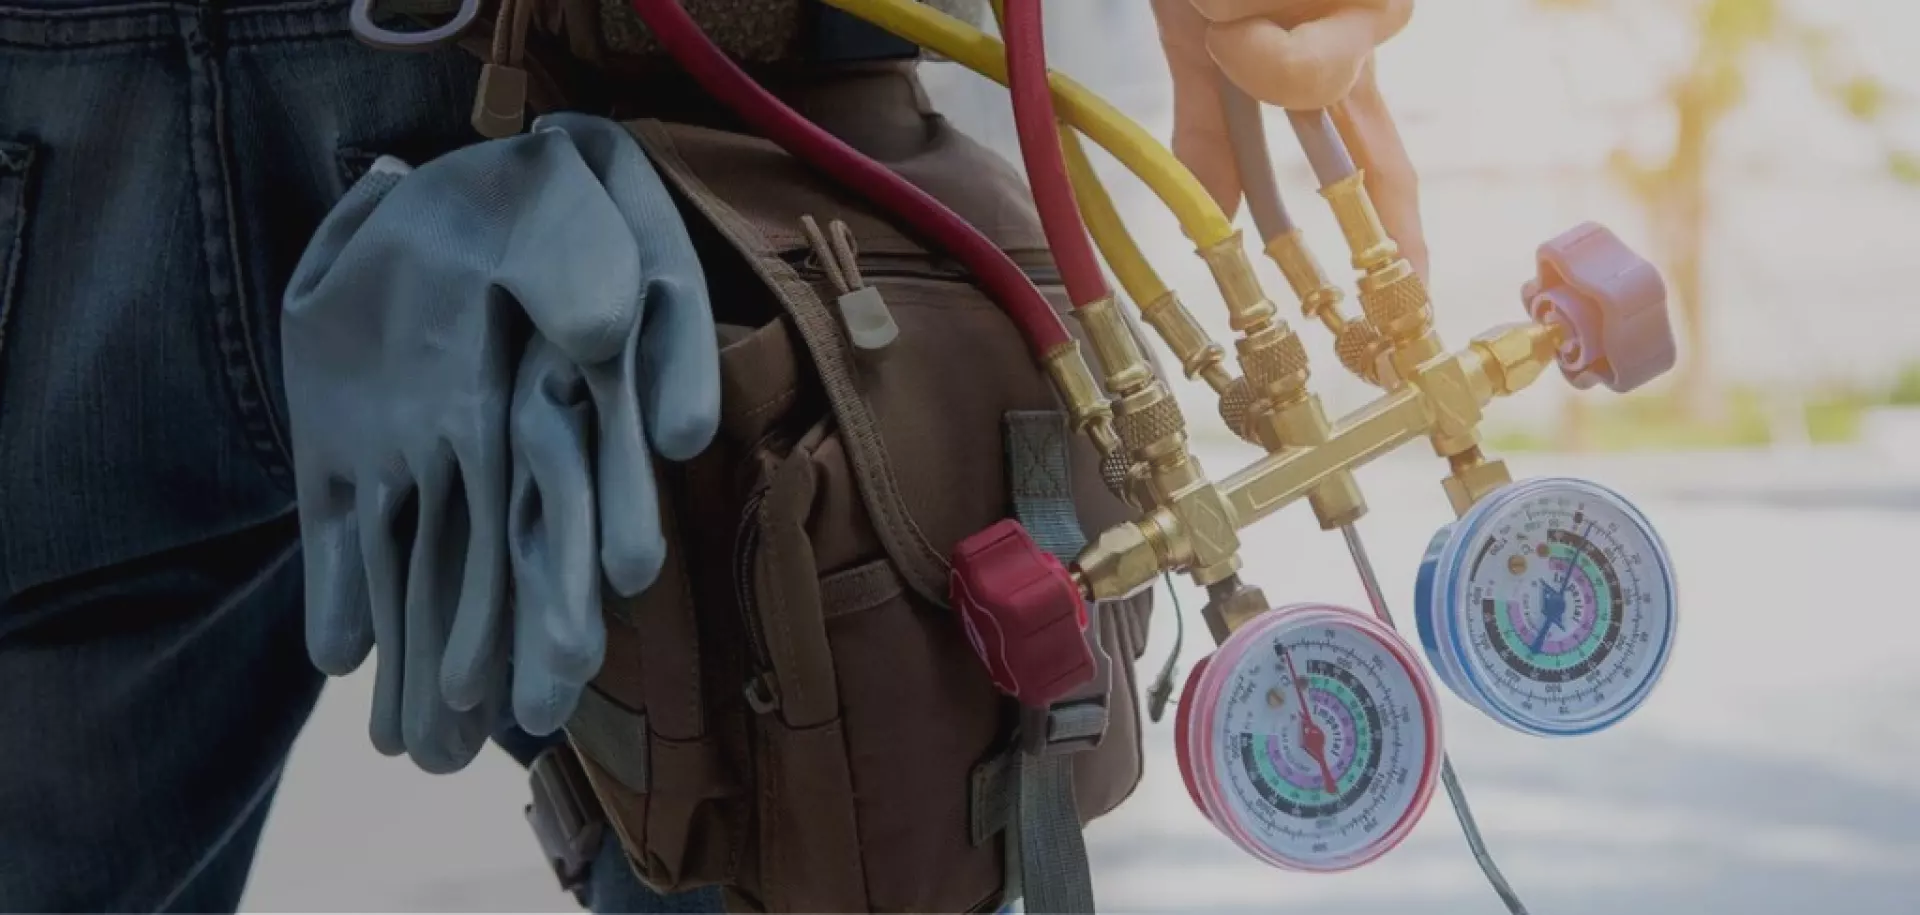
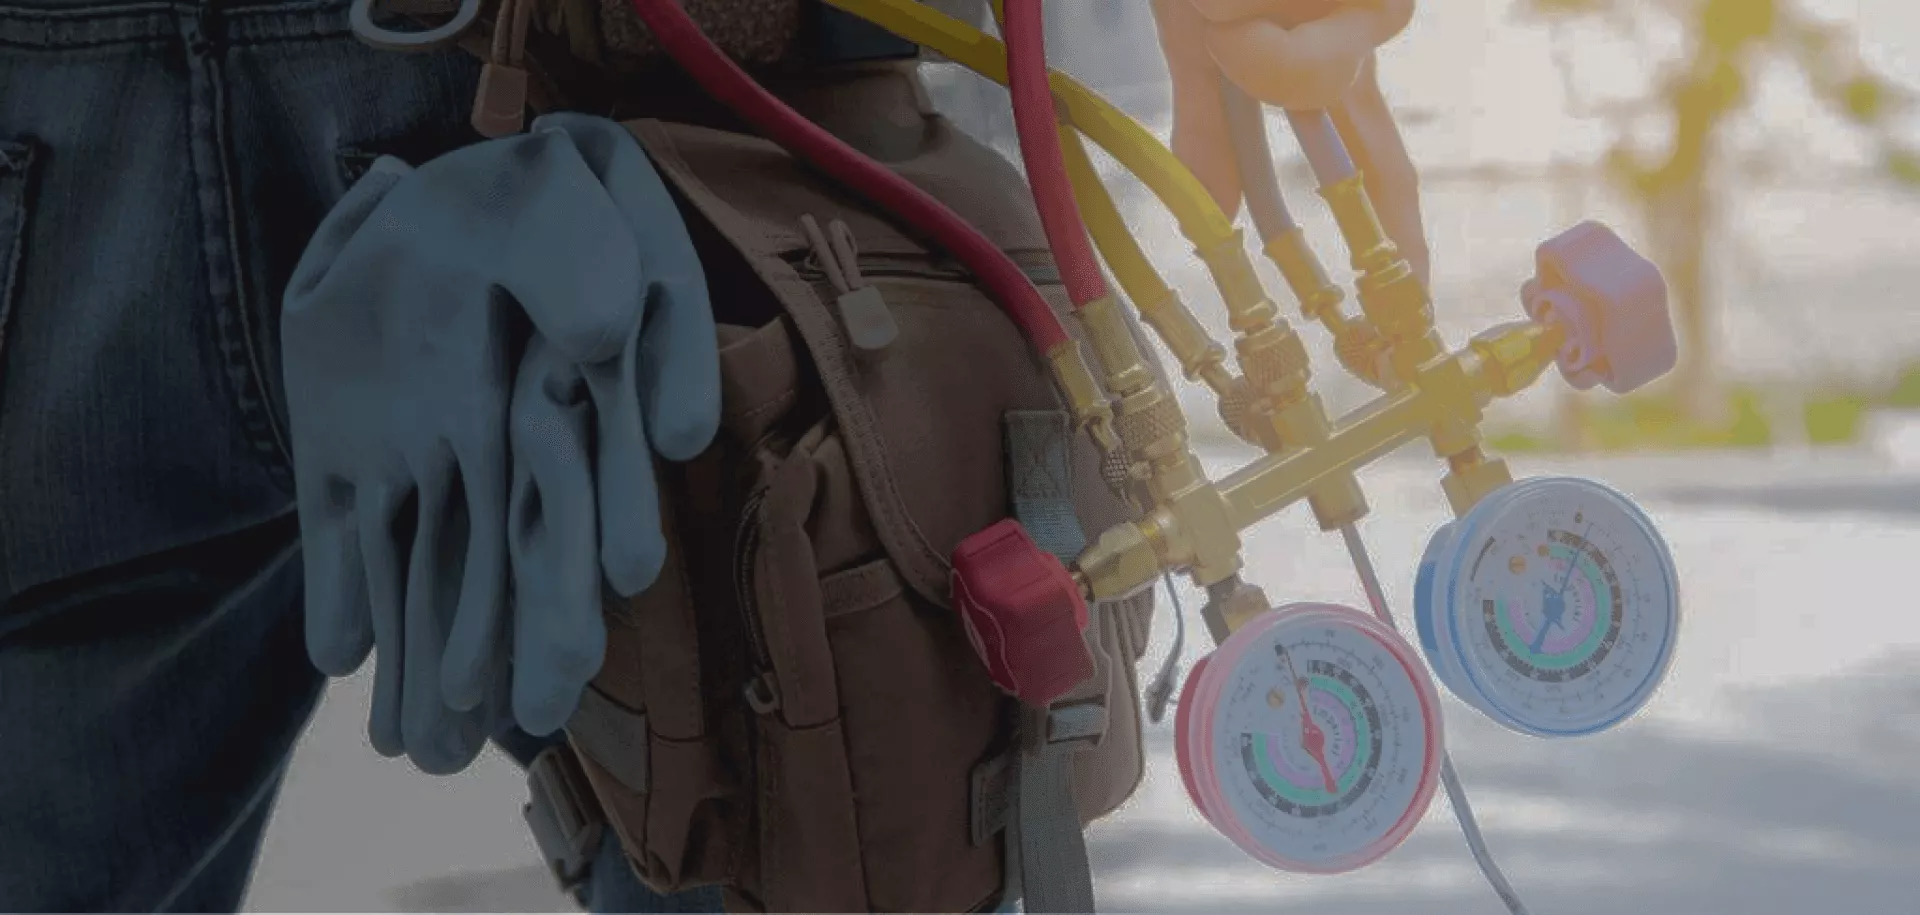
feat: Remake HeroSection

diff --git a/src/assets/images/index.ts b/src/assets/images/index.ts
@@ -1,5 +1,6 @@
 export { default as Logo } from "./logo-rr.webp";
 export { default as LogoWhite } from "./logo-white-rr.webp";
+export { default as HeroBG } from "./hero-image.webp";
 export { default as Whatsapp } from "./defaultwhatsapp.svg";
 export { default as SocialInstagram } from "./social-instagram.png";
 export { default as SocialEmail } from "./social-email.png";
